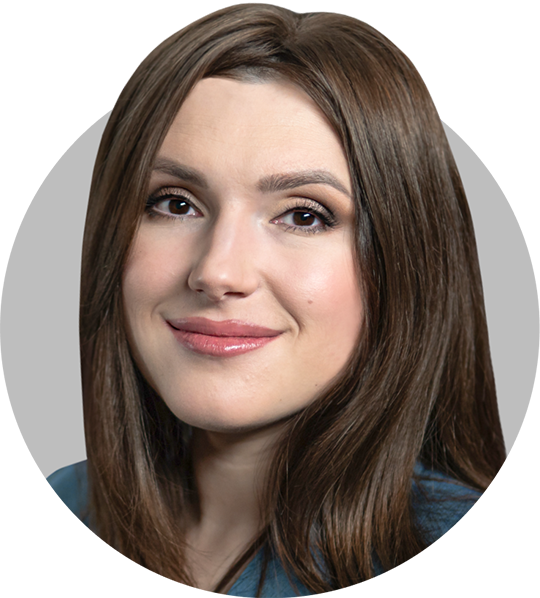
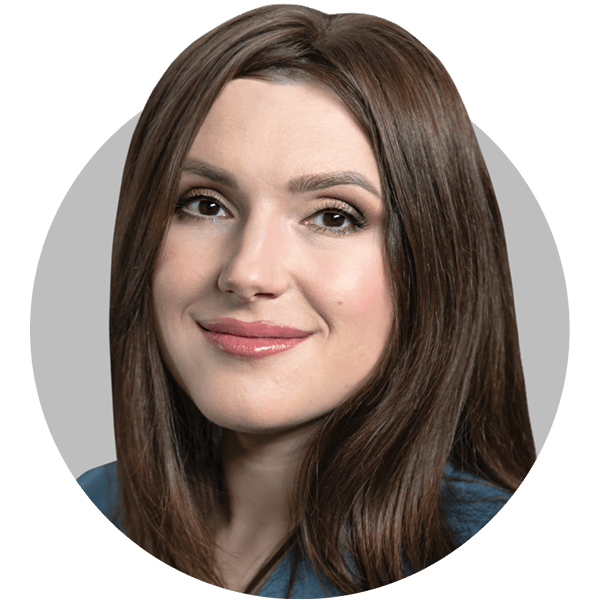
Добавить иконки и манифест для PWA, обновить index.html

diff --git a/index.html b/index.html
@@ -10,11 +10,7 @@
 <meta name="robots" content="index, follow, max-image-preview:large">
 <link rel="canonical" href="https://duchenko.ru/">
 
-<!-- Гео -->
-<meta name="geo.region" content="RU-SPE">
-<meta name="geo.placename" content="Санкт-Петербург">
-<meta name="geo.position" content="59.9386;30.3141">
-<meta name="ICBM" content="59.9386, 30.3141">
+<meta name="yandex-verification" content="d1031714aebededa" />
 
 <!-- Open Graph -->
 <meta property="og:type" content="profile">
@@ -36,6 +32,11 @@
 <link rel="preconnect" href="https://fonts.googleapis.com">
 <link rel="preconnect" href="https://fonts.gstatic.com" crossorigin>
 <link href="https://fonts.googleapis.com/css2?family=Cormorant+Garamond:wght@500;600;700&family=Inter:wght@400;500;600&display=swap" rel="stylesheet">
+
+<link rel="apple-touch-icon" sizes="180x180" href="/img/apple-touch-icon.png">
+<link rel="icon" type="image/png" sizes="32x32" href="/img/favicon-32x32.png">
+<link rel="icon" type="image/png" sizes="16x16" href="/img/favicon-16x16.png">
+<link rel="manifest" href="/site.webmanifest">
 <style>
   :root{
     --ink:#16202e;
@@ -494,7 +495,7 @@
           <div><b>Премия Адвокатской палаты СПб</b><span>За успехи при представительстве по гражданским делам.</span></div>
         </div>
         <div class="award">
-          <div class="yr">16–21</div>
+          <div class="yr">16/21</div>
           <div><b>Best Lawyers</b><span>Лучшие юристы России: трудовое и миграционное право, судебные споры.</span></div>
         </div>
         <div class="award">
@@ -612,5 +613,18 @@
     return false;
   }
 </script>
+<!-- Yandex.Metrika counter -->
+<script type="text/javascript">
+    (function(m,e,t,r,i,k,a){
+        m[i]=m[i]||function(){(m[i].a=m[i].a||[]).push(arguments)};
+        m[i].l=1*new Date();
+        for (var j = 0; j < document.scripts.length; j++) {if (document.scripts[j].src === r) { return; }}
+        k=e.createElement(t),a=e.getElementsByTagName(t)[0],k.async=1,k.src=r,a.parentNode.insertBefore(k,a)
+    })(window, document,'script','https://mc.yandex.ru/metrika/tag.js?id=110036950', 'ym');
+
+    ym(110036950, 'init', {ssr:true, webvisor:true, clickmap:true, ecommerce:"dataLayer", referrer: document.referrer, url: location.href, accurateTrackBounce:true, trackLinks:true});
+</script>
+<noscript><div><img src="https://mc.yandex.ru/watch/110036950" style="position:absolute; left:-9999px;" alt="" /></div></noscript>
+<!-- /Yandex.Metrika counter -->
 </body>
 </html>
